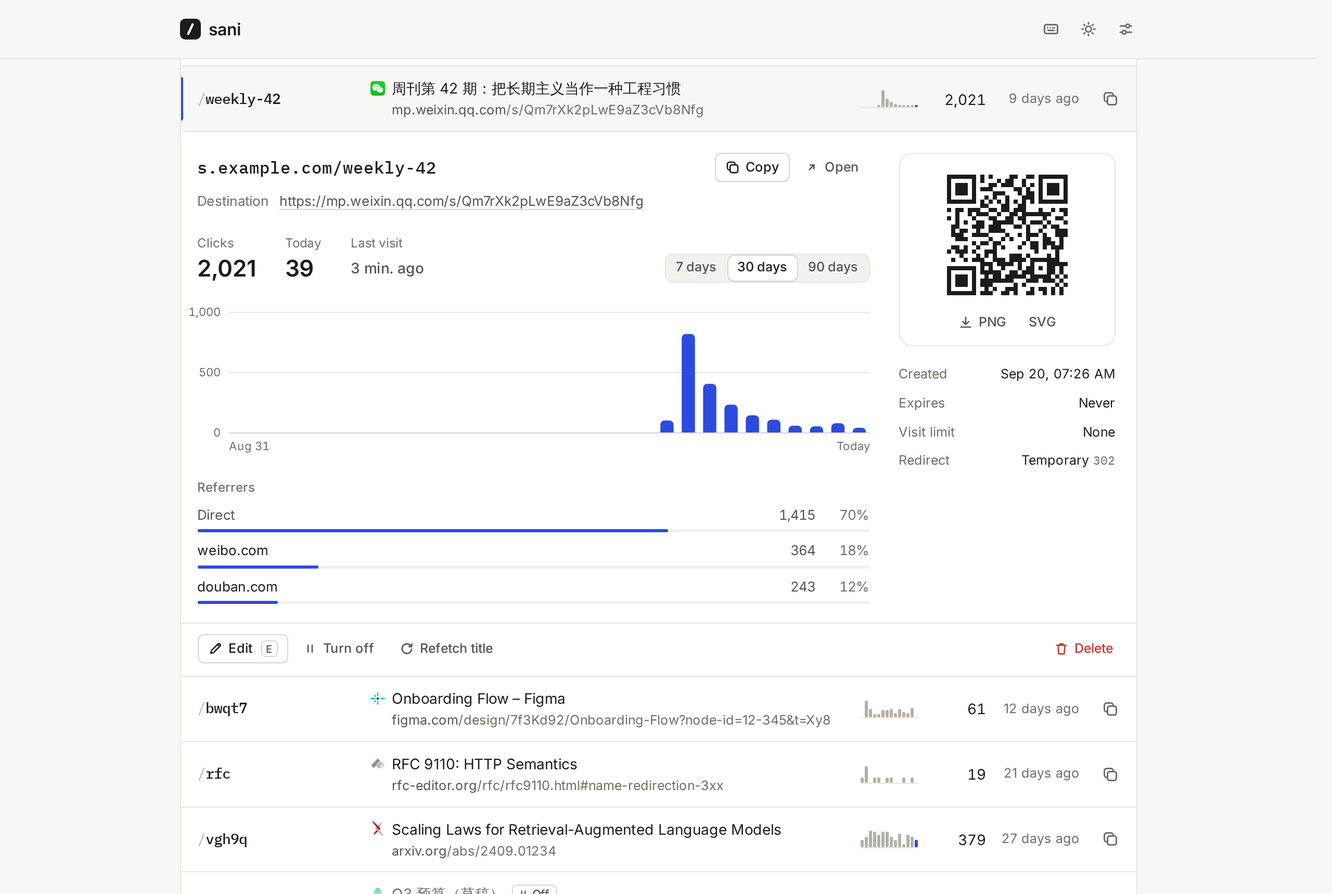
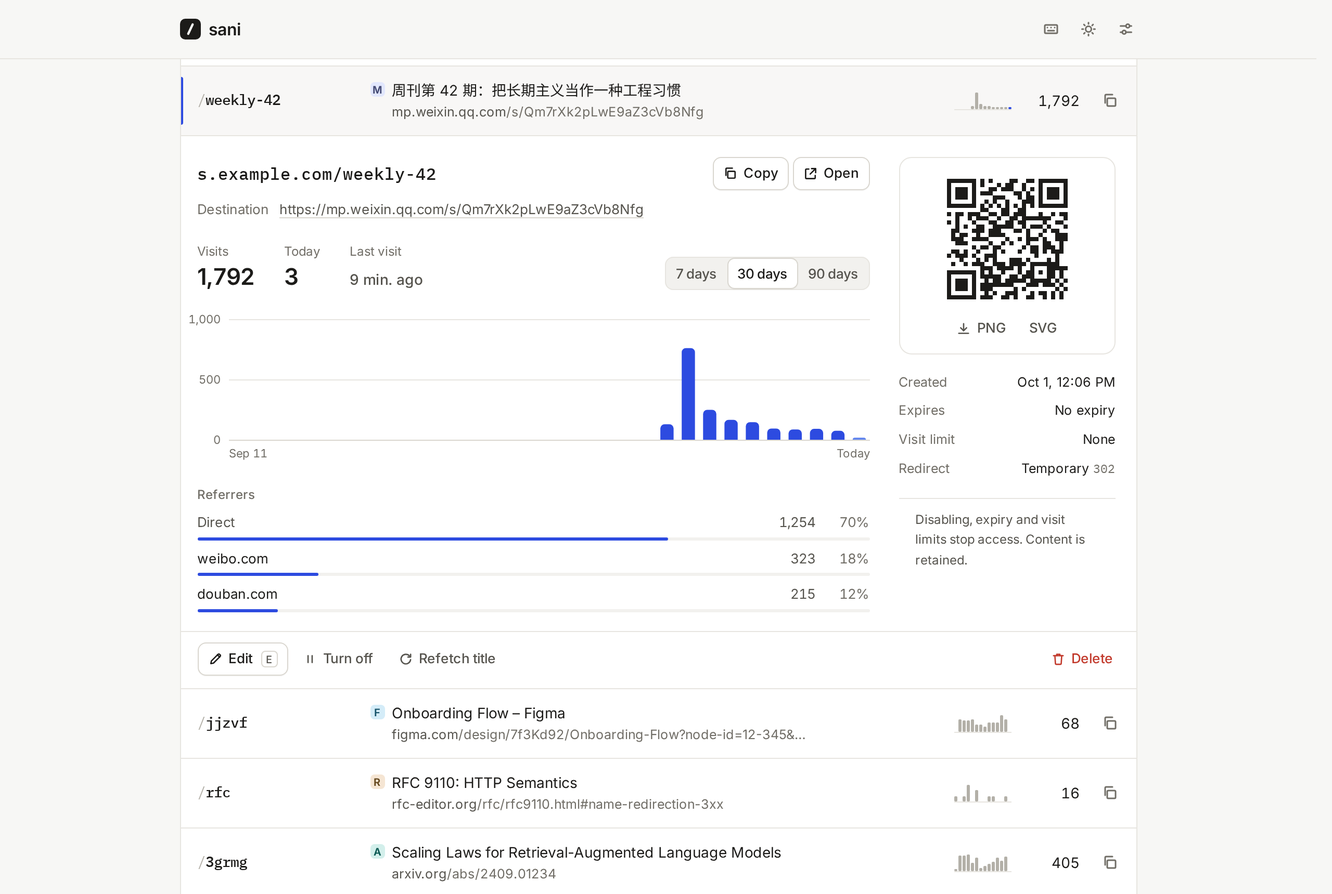
release: prepare v0.9.4

diff --git a/docs/en/guide/usage.md b/docs/en/guide/usage.md
@@ -1,6 +1,6 @@
 # Everyday use
 
-<p class="lead">The admin app is built around one job: getting a short link into your hands as quickly as possible. Here are the everyday actions, plus a few details that are easy to miss.</p>
+<p class="lead">Use Links, Text and Files to create content, then manage share URLs, tags and visits together. This guide explains everyday actions and their limits.</p>
 
 ## Shortening links
 
@@ -18,7 +18,7 @@ You can shorten the same URL as often as you like, and each time you get a new l
 
 ## Grouping with tags {#tags}
 
-Choose existing tags or create one by name when creating a URL, text or file link. Each link supports up to 5 tags. Names allow 24 Unicode code points, are trimmed and NFC-normalized, and are matched case-insensitively. New tags can have a color; the default is blue. Each instance supports up to 1,000 tags.
+Choose existing tags or create one by name when creating a URL, text or file link. Each item supports up to 5 tags. Names allow 24 Unicode code points, are trimmed and NFC-normalized, and are matched case-insensitively. New tags can have a color; the default is blue. Each instance supports up to 1,000 tags.
 
 Open a link's details and choose Edit to change its tags. Saving applies assignments; canceling keeps the previous grouping. Creating a tag saves it to the catalog immediately, so it remains available even if you later cancel the link edit.
 
@@ -63,9 +63,9 @@ Under “More options”, when creating a link or any time later:
 
 ## Several links at once {#bulk}
 
-Click “Select” above the list, or press <kbd>X</kbd> on a selected row, to enter selection mode. A click on a row then checks it; <kbd>Shift</kbd>-click another row to check everything in between, and the box at the left of the action bar checks every loaded link.
+Click “Select” above the list, or press <kbd>X</kbd> on a selected row, to enter selection mode. A click on a row then checks it; <kbd>Shift</kbd>-click another row to check everything in between, and the box at the left of the action bar checks every loaded item.
 
-With links checked, the action bar turns them on or off, or deletes them, up to 500 at a time. Deleting offers undo, as usual. Press <kbd>Esc</kbd> or click “Done” to leave selection mode.
+With items checked, the action bar turns them on or off, or deletes them, up to 500 at a time. Deleting offers undo, as usual. Press <kbd>Esc</kbd> or click “Done” to leave selection mode.
 
 Search first and then check everything to handle a group of related links at once, such as turning off all the links of a campaign. Changing the search or the sort clears the checks, so nothing out of sight gets changed.
 
@@ -92,14 +92,14 @@ In the list, texts and files show `/p/` before the slug and an icon instead of a
 
 Search matches slugs, titles, destinations, file names and the first line of texts; press <kbd>/</kbd> to start typing. Pasting a full short link finds that link. Next to it, “All types” narrows the list to links, texts or files.
 
-The list sorts by “Newest”, “Most clicked” or “Last visited”.
+The list sorts by “Newest”, “Most visits” or “Last visited”.
 
 ## Link details
 
 Click a row, or select it and press <kbd>Enter</kbd>, to open its details:
 
-- total clicks, clicks today, the last visit and the creation date, plus how much of the expiry and visit limit is used;
-- daily clicks for the last 7, 30 or 90 days;
+- total visits, visits today, the last visit and the creation date, plus how much of the expiry and visit limit is used;
+- daily visits for the last 7, 30 or 90 days;
 - the top referring sites;
 - a QR code, downloadable as PNG or SVG;
 - edit, turn off, delete and “Refetch title”.
@@ -110,12 +110,12 @@ Press <kbd>?</kbd> in the admin app to see them any time.
 
 | Keys | Action |
 |---|---|
-| <kbd>N</kbd> | New short link |
+| <kbd>N</kbd> | Focus the current creation form |
 | <kbd>Ctrl</kbd> <kbd>V</kbd> / <kbd>⌘</kbd> <kbd>V</kbd> | Paste a link anywhere |
 | <kbd>/</kbd> | Search |
 | <kbd>J</kbd> / <kbd>K</kbd>, or <kbd>↓</kbd> / <kbd>↑</kbd> | Move the selection |
 | <kbd>Enter</kbd> | Open or close details |
-| <kbd>C</kbd> | Copy the short link |
+| <kbd>C</kbd> | Copy the share URL |
 | <kbd>E</kbd> | Edit |
 | <kbd>Ctrl</kbd> <kbd>Enter</kbd> / <kbd>⌘</kbd> <kbd>Enter</kbd> | Save changes |
 | <kbd>Del</kbd> / <kbd>⌘</kbd> <kbd>⌫</kbd> | Delete, with undo; with links checked, deletes all of them |

diff --git a/docs/guide/usage.md b/docs/guide/usage.md
@@ -1,6 +1,6 @@
 # 日常使用
 
-<p class="lead">管理界面专注一件事：以最高效的方式完成链接缩短并交付。以下是常用交互技巧与进阶细节说明。</p>
+<p class="lead">管理界面用“链接、文本、文件”三个入口创建内容，并统一管理分享地址、标签和访问记录。以下是常用操作与边界说明。</p>
 
 ## 缩短链接
 
@@ -18,7 +18,7 @@
 
 ## 标签分组 {#tags}
 
-创建短链接、文本或文件分享时，在“标签”一栏选择已有标签，或输入名称直接新建。每条链接最多 5 个标签，名称最多 24 个 Unicode 码点；首尾空白会去除，规范化后的名称不区分大小写。新标签可选择颜色，默认蓝色；每个实例最多 1,000 个标签。
+创建短链接、文本或文件分享时，在“标签”一栏选择已有标签，或输入名称直接新建。每条内容最多 5 个标签，名称最多 24 个 Unicode 码点；首尾空白会去除，规范化后的名称不区分大小写。新标签可选择颜色，默认蓝色；每个实例最多 1,000 个标签。
 
 展开链接详情后点击“编辑”可调整标签；保存后生效，取消保留原分组。新建标签会立即保存到目录，即使之后取消链接编辑，也可以在下次使用它。
 
@@ -63,9 +63,9 @@
 
 ## 批量操作 {#bulk}
 
-点击列表顶栏“选择”或选定条目按 <kbd>X</kbd> 进入批量模式。单选每行直接勾选，配合 <kbd>Shift</kbd> 可范围连选；批量操作栏左侧复选框支持全选当前加载的链接。
+点击列表顶栏“多选”或选定条目按 <kbd>X</kbd> 进入批量模式。单选每行直接勾选，配合 <kbd>Shift</kbd> 可范围连选；批量操作栏左侧复选框支持全选当前加载的内容。
 
-支持对最多 500 条链接执行一键启用、停用或删除。批量删除同样支持撤销。按 <kbd>Esc</kbd> 或点击“完成”退出多选。
+支持对最多 500 条内容执行一键启用、停用或删除。批量删除同样支持撤销。按 <kbd>Esc</kbd> 或点击“完成”退出多选。
 
 配合搜索关键词过滤后再行全选，可批量处置特定活动或标签链接。切换搜索词或排序规则时会自动清空勾选，防止误操作视区外的隐藏记录。
 
@@ -92,14 +92,14 @@
 
 全局搜索支持匹配短码、标题、目标网址、文件名及首行文本内容，在任意界面按 <kbd>/</kbd> 即可快速唤起。直接粘贴完整短链接亦能精准定位。类型下拉框支持在“全部类型”、“链接”、“文本”、“文件”之间快速切换。
 
-列表支持按“最近创建”、“点击最多”与“最近访问”三种维度排序。
+列表支持按“最近创建”、“访问最多”与“最近访问”三种维度排序。
 
 ## 详细指标面板
 
 点击列表条目或选中后按 <kbd>回车</kbd> 展开详细面板：
 
-- 总点击、今日点击、最后访问时间、创建时间，以及有效期与访问上限消耗进度；
-- 近 7 天、30 天或 90 天的每日点击柱状图趋势；
+- 总访问、今日访问、最后访问时间、创建时间，以及有效期与访问上限消耗进度；
+- 近 7 天、30 天或 90 天的每日访问柱状图趋势；
 - Top 来源域名排行；
 - 二维码预览（支持导出 PNG 或 SVG）；
 - 编辑、停用、删除及“重新获取标题”等快捷操作。
@@ -110,12 +110,12 @@
 
 | 按键 | 作用 |
 |---|---|
-| <kbd>N</kbd> | 新建短链接 |
+| <kbd>N</kbd> | 聚焦当前创建区域 |
 | <kbd>Ctrl</kbd> <kbd>V</kbd> / <kbd>⌘</kbd> <kbd>V</kbd> | 全局粘贴链接 |
 | <kbd>/</kbd> | 聚焦搜索框 |
 | <kbd>J</kbd> / <kbd>K</kbd>，或 <kbd>↓</kbd> / <kbd>↑</kbd> | 上下移动选定项 |
 | <kbd>回车</kbd> | 展开 / 收起条目详情 |
-| <kbd>C</kbd> | 复制短链接至剪贴板 |
+| <kbd>C</kbd> | 复制分享地址至剪贴板 |
 | <kbd>E</kbd> | 编辑当前链接 |
 | <kbd>Ctrl</kbd> <kbd>回车</kbd> / <kbd>⌘</kbd> <kbd>回车</kbd> | 提交保存修改 |
 | <kbd>Del</kbd> / <kbd>⌘</kbd> <kbd>⌫</kbd> | 快捷删除（可撤销）；在多选模式下删除已勾选条目 |

diff --git a/docs/en/project/development.md b/docs/en/project/development.md
@@ -120,18 +120,18 @@ To release a new version:
 
 Push to Forgejo: `origin` must point to `ssh://git@ssh.via.moe/dejavu/sani.git`. Forgejo automatically mirrors pushes to GitHub, triggering application CI and release builds. `.woodpecker/docs.yml` deploys the documentation to `https://sani.zsh.moe` on Forgejo `master` pushes; pushing only to GitHub or only pushing a tag does not trigger documentation deployment.
 
-1. Turn the “Unreleased” section of both changelogs into a heading such as `## v0.9.3`, followed by the date. Update the full version tag in Compose, bilingual download examples and image verification examples.
-2. Run `make check test e2e smoke docs VERSION=v0.9.3` and `bash scripts/test-release-notes.sh`; confirm `scripts/release-notes.sh v0.9.3` generates the notes.
+1. Turn the “Unreleased” section of both changelogs into a heading such as `## v0.9.4`, followed by the date. Update the full version tag in Compose, bilingual download examples and image verification examples.
+2. Run `make check test e2e smoke docs VERSION=v0.9.4` and `bash scripts/test-release-notes.sh`; confirm `scripts/release-notes.sh v0.9.4` generates the notes.
 3. Commit, verify the Forgejo address with `git remote get-url origin`, then run `git push origin master`. Confirm GitHub mirrors the same commit, wait for that commit's CI and CodeQL to pass, and check Woodpecker documentation deployment.
 4. Create an annotated tag on the verified commit and push it to the same Forgejo remote:
 
    ```sh
-   git tag -a v0.9.3 -m "Sani v0.9.3"
-   git push origin refs/tags/v0.9.3
+   git tag -a v0.9.4 -m "Sani v0.9.4"
+   git push origin refs/tags/v0.9.4
    ```
 
 5. Wait for the GitHub Release to succeed and compare tag objects and target commits on Forgejo and GitHub. Verify every archive's SHA-256 and provenance, the multi-platform image and runtime version, and the live documentation's version and content in both languages. Never move, recreate or force-push a published tag; synchronize a missing tag by pushing its original object.
 
-The release workflow first makes sure the English changelog has an entry for the version, and stops if it doesn’t. It then runs the checks and tests once more, builds the archives and `SHA256SUMS`, pushes the multi-platform image with an SBOM, records build provenance for both, and creates the GitHub release with notes taken from the changelog. A tag like `v0.9.3-rc.1` is marked as a pre-release. Images always use full version tags; no `latest` or floating tags are published.
+The release workflow first makes sure the English changelog has an entry for the version, and stops if it doesn’t. It then runs the checks and tests once more, builds the archives and `SHA256SUMS`, pushes the multi-platform image with an SBOM, records build provenance for both, and creates the GitHub release with notes taken from the changelog. A tag like `v0.9.4-rc.1` is marked as a pre-release. Images always use full version tags; no `latest` or floating tags are published.
 
 Locally, `make web dist VERSION=v0.2.0` produces the same archives as the release. Building one commit twice gives byte-for-byte identical files.

diff --git a/docs/project/development.md b/docs/project/development.md
@@ -120,18 +120,18 @@ cd web && SANI_URL=http://127.0.0.1:18080 SANI_FRESH_URL=http://127.0.0.1:8080 n
 
 推送入口是 Forgejo：`origin` 应指向 `ssh://git@ssh.via.moe/dejavu/sani.git`。Forgejo 收到推送后自动镜像到 GitHub，触发应用 CI 与发布构建。文档站由 `.woodpecker/docs.yml` 监听 Forgejo 的 `master` 推送并部署到 `https://sani.zsh.moe`；只推 GitHub 或只推标签不会触发这条文档部署流程。
 
-1. 把两份更新日志里的“未发布”一节改成新版本，标题是 `## v0.9.3` 这样的格式，并在下一行写上日期；同步 Compose、双语下载示例与镜像校验示例的完整版本标签。
-2. 运行 `make check test e2e smoke docs VERSION=v0.9.3` 和 `bash scripts/test-release-notes.sh`，确认 `scripts/release-notes.sh v0.9.3` 能生成说明。
+1. 把两份更新日志里的“未发布”一节改成新版本，标题是 `## v0.9.4` 这样的格式，并在下一行写上日期；同步 Compose、双语下载示例与镜像校验示例的完整版本标签。
+2. 运行 `make check test e2e smoke docs VERSION=v0.9.4` 和 `bash scripts/test-release-notes.sh`，确认 `scripts/release-notes.sh v0.9.4` 能生成说明。
 3. 提交后先用 `git remote get-url origin` 核对 Forgejo 地址，再 `git push origin master`。确认镜像到 GitHub 的提交一致，等待该提交的 CI 与 CodeQL 通过，并检查 Woodpecker 文档部署。
 4. 在已通过检查的提交上创建附注标签，推送到同一个 Forgejo 远程：
 
    ```sh
-   git tag -a v0.9.3 -m "Sani v0.9.3"
-   git push origin refs/tags/v0.9.3
+   git tag -a v0.9.4 -m "Sani v0.9.4"
+   git push origin refs/tags/v0.9.4
    ```
 
 5. 等待 GitHub Release 成功，核对 Forgejo 与 GitHub 的标签对象及目标提交一致；验证所有压缩包的 SHA-256 与来源证明、多平台镜像和实际运行版本，以及线上中英文文档的版本和内容。已发布标签不得移动、重建或强推；补同步缺失标签时推送原有对象。
 
-发布流程会先确认英文更新日志里有这个版本的条目（没有就停下），再运行一遍检查和测试，然后构建各平台的压缩包和 `SHA256SUMS`、推送多平台镜像（附 SBOM），为两者生成构建来源证明，最后创建 GitHub Release，说明取自更新日志。`v0.9.3-rc.1` 这样的标签会标记为预发布。镜像始终使用完整版本标签，不发布 `latest` 或浮动标签。
+发布流程会先确认英文更新日志里有这个版本的条目（没有就停下），再运行一遍检查和测试，然后构建各平台的压缩包和 `SHA256SUMS`、推送多平台镜像（附 SBOM），为两者生成构建来源证明，最后创建 GitHub Release，说明取自更新日志。`v0.9.4-rc.1` 这样的标签会标记为预发布。镜像始终使用完整版本标签，不发布 `latest` 或浮动标签。
 
 在本地可以用 `make web dist VERSION=v0.2.0` 得到和发布时相同的压缩包。同一个提交构建两次，结果逐字节相同。

diff --git a/docs/en/guide/deploy.md b/docs/en/guide/deploy.md
@@ -28,10 +28,10 @@ A few things worth knowing about `compose.yaml`:
 
 | Tag | Points at |
 |---|---|
-| `v0.9.3` | The exact version matching Git tag and GitHub Release `v0.9.3` |
-| `v0.9.3-rc.1` | The matching prerelease Git tag, available only once published |
+| `v0.9.4` | The exact version matching Git tag and GitHub Release `v0.9.4` |
+| `v0.9.4-rc.1` | The matching prerelease Git tag, available only once published |
 
-From v0.7.0, image tags match Git tags and GitHub Releases exactly, including the `v` prefix. Releases no longer publish `latest`, major or minor floating tags. The repository template and configuration builder pin `ghcr.io/dejavumoe/sani:v0.9.3`. Check that the version appears in [Releases](https://github.com/DejavuMoe/sani/releases) before deploying; a release preparation branch may refer to a version that is not published yet.
+From v0.7.0, image tags match Git tags and GitHub Releases exactly, including the `v` prefix. Releases no longer publish `latest`, major or minor floating tags. The repository template and configuration builder pin `ghcr.io/dejavumoe/sani:v0.9.4`. Check that the version appears in [Releases](https://github.com/DejavuMoe/sani/releases) before deploying; a release preparation branch may refer to a version that is not published yet.
 
 To upgrade, [back up](./operations#backup), change `image:` in `compose.yaml` to the target version's full tag, then run:
 
@@ -104,7 +104,7 @@ The binary is statically linked and needs no libraries on the server. On macOS, 
 ::: code-group
 
 ```sh [Download]
-base=https://github.com/DejavuMoe/sani/releases/download/v0.9.3
+base=https://github.com/DejavuMoe/sani/releases/download/v0.9.4
 curl -fsSLO "$base/sani-linux-amd64.tar.gz" -O "$base/SHA256SUMS"
 sha256sum --ignore-missing -c SHA256SUMS
 tar -xzf sani-linux-amd64.tar.gz sani
@@ -119,7 +119,7 @@ ssh server sudo install -m 755 /tmp/sani /usr/local/bin/sani
 
 :::
 
-The download path pins `v0.9.3`. When upgrading, replace it with the published target version's tag.
+The download path pins `v0.9.4`. When upgrading, replace it with the published target version's tag.
 
 ### Checking where a build came from {#verify}
 
@@ -127,7 +127,7 @@ Release files and images are built by GitHub Actions from the tagged commit, wit
 
 ```sh
 gh attestation verify sani-linux-amd64.tar.gz -R DejavuMoe/sani
-gh attestation verify oci://ghcr.io/dejavumoe/sani:v0.9.3 -R DejavuMoe/sani
+gh attestation verify oci://ghcr.io/dejavumoe/sani:v0.9.4 -R DejavuMoe/sani
 ```
 
 Save the generated `sani.service` in `/etc/systemd/system/` and enable it:

diff --git a/docs/guide/deploy.md b/docs/guide/deploy.md
@@ -28,10 +28,10 @@ docker compose up -d
 
 | 标签 | 指向 |
 |---|---|
-| `v0.9.3` | 对应 Git tag 和 GitHub Release `v0.9.3` 的具体版本 |
-| `v0.9.3-rc.1` | 对应同名 Git tag 的预发布版（仅在发布该版本后可用） |
+| `v0.9.4` | 对应 Git tag 和 GitHub Release `v0.9.4` 的具体版本 |
+| `v0.9.4-rc.1` | 对应同名 Git tag 的预发布版（仅在发布该版本后可用） |
 
-从 v0.7.0 起，镜像标签与 Git tag、GitHub Release 完全一致，保留 `v` 前缀；不再发布 `latest`、主版本或次版本浮动标签。仓库模板与配置生成器固定使用 `ghcr.io/dejavumoe/sani:v0.9.3`。部署前确认该版本已出现在 [Releases](https://github.com/DejavuMoe/sani/releases) 中；发布准备分支中的版本可能尚未发布。
+从 v0.7.0 起，镜像标签与 Git tag、GitHub Release 完全一致，保留 `v` 前缀；不再发布 `latest`、主版本或次版本浮动标签。仓库模板与配置生成器固定使用 `ghcr.io/dejavumoe/sani:v0.9.4`。部署前确认该版本已出现在 [Releases](https://github.com/DejavuMoe/sani/releases) 中；发布准备分支中的版本可能尚未发布。
 
 升级时先[备份](./operations#backup)，再手动将 `compose.yaml` 的 `image:` 改为目标版本的完整标签，随后执行：
 
@@ -104,7 +104,7 @@ docker exec sani /sani healthcheck
 ::: code-group
 
 ```sh [下载]
-base=https://github.com/DejavuMoe/sani/releases/download/v0.9.3
+base=https://github.com/DejavuMoe/sani/releases/download/v0.9.4
 curl -fsSLO "$base/sani-linux-amd64.tar.gz" -O "$base/SHA256SUMS"
 sha256sum --ignore-missing -c SHA256SUMS
 tar -xzf sani-linux-amd64.tar.gz sani
@@ -119,7 +119,7 @@ ssh server sudo install -m 755 /tmp/sani /usr/local/bin/sani
 
 :::
 
-下载路径固定到 `v0.9.3`；升级时将路径中的标签改为已发布的目标版本。
+下载路径固定到 `v0.9.4`；升级时将路径中的标签改为已发布的目标版本。
 
 ### 校验来源与签名 {#verify}
 
@@ -127,7 +127,7 @@ ssh server sudo install -m 755 /tmp/sani /usr/local/bin/sani
 
 ```sh
 gh attestation verify sani-linux-amd64.tar.gz -R DejavuMoe/sani
-gh attestation verify oci://ghcr.io/dejavumoe/sani:v0.9.3 -R DejavuMoe/sani
+gh attestation verify oci://ghcr.io/dejavumoe/sani:v0.9.4 -R DejavuMoe/sani
 ```
 
 将生成的 `sani.service` 写入 `/etc/systemd/system/` 并启动：

diff --git a/docs/en/project/progress.md b/docs/en/project/progress.md
@@ -41,6 +41,12 @@ Run the following checks for each release candidate commit. A previous release's
 
 Before accepting a target deployment, also verify HTTPS, proxy trust, both domains, volume permissions, backup recovery and monitoring as described in [Operations](../guide/operations). `/healthz` reports liveness, not database writability or complete application health. The compatibility promises for 1.0 require the separate [versioning gates](./versioning#before-1); passing local checks does not automatically make a 1.0 release.
 
+## v0.9.4 management and visual consistency acceptance {#r9-acceptance}
+
+Approved R7 and R9 are implemented. Tag search and scope filters share an outer height; toolbars, fields and menus use shared sizes, with 44px controls on narrow or touch screens. Categories, share URLs, visit statistics and About typography are consistent. R9 sizing supersedes the R6 narrow-screen compact rule.
+
+Atomic tag deletion and retained content: `internal/store/tags_test.go`, `internal/server/tags_test.go`. Draft guards, filtered refresh, retries and grouped dimensions: `web/e2e/r7.spec.ts`. Breakpoints, both languages/themes, mouse and emulated touch: `web/e2e/metadata.spec.ts`. Rendered evidence: `designs/sani/implementation-r9/`. Physical devices and Firefox/WebKit remain unverified.
+
 ## v0.9.3 slug and interface fix acceptance {#r6-acceptance}
 
 Approved R6 is implemented, with matching prototype and production fixes. These regressions cover independent slug settings, stable previews and responsive controls. Touch checks use browser emulation; they do not establish acceptance on physical iOS/Android devices or Firefox/WebKit.

diff --git a/docs/en/project/changelog.md b/docs/en/project/changelog.md
@@ -2,13 +2,17 @@
 
 <p class="lead">Every release’s changes are recorded here. Versions follow [semantic versioning](./versioning); before 1.0, a minor version may include breaking changes, and when it does, this page says how to upgrade.</p>
 
-## Unreleased
+## v0.9.4
+
+2026-10-10 · Fix missing tag management, lost draft/refresh state and inconsistent interface controls. Implements approved R7 and R9. Database schema remains 5 with no new migration; existing share URLs, configuration defaults and file contents stay unchanged.
 
 - Apply approved R9 control sizes: 32px desktop toolbars, 36px fields and 38px menu rows, with 44px controls on narrow or touch screens. Align tag search and filters, management entry styling and About typography.
 - Complete tag management with search, unused tags, global editing and atomic deletion that retains content.
 - Protect submitted drafts and unsaved item edits; preserve loaded pages and selection during refresh.
 - Distinguish query, pagination, statistics and token errors from empty data, with retry actions.
 - Clarify Links / Text / Files, counts, access limits and export versus backup; download all skipped import records.
+
+Before upgrading from v0.9.3, back up the database, files and configuration using [backup and restore](../guide/operations#backup-files), then replace the binary or pin `ghcr.io/dejavumoe/sani:v0.9.4`. Check Manage tags and creation/editing for all three content types. Deleting a tag removes its associations from all items while keeping the items; it cannot be undone. Use disposable tags when checking deletion.
 
 ## v0.9.3
 

diff --git a/docs/project/changelog.md b/docs/project/changelog.md
@@ -2,13 +2,17 @@
 
 <p class="lead">每个版本的变化都记录在这里。版本号遵循[语义化版本](./versioning)；在 1.0 之前，次版本号的变化也可能包含不兼容的修改，届时会在这里写明升级方法。</p>
 
-## Unreleased
+## v0.9.4
+
+2026-10-10 · 修复标签管理缺失、草稿与刷新状态丢失及界面视觉不一致，实施已批准的 R7、R9。数据库 schema 仍为 5，无新增迁移；已有分享地址、配置默认值及文件内容不变。
 
 - 按 R9 统一控件外框：桌面工具栏 32px、表单 36px、菜单行 38px，窄屏或触屏统一 44px；修复标签搜索与筛选高度、管理入口样式及关于信息字体不一致。
 - 补齐标签管理：搜索、未使用筛选、全局编辑和原子删除，删除标签保留内容。
 - 保护提交中的草稿与未保存编辑；刷新保留已加载页面和选择。
 - 区分筛选、分页、统计、令牌读取失败与空数据，提供就地重试。
 - 明确链接 / 文本 / 文件、统计与访问口径、导出和备份边界，支持下载全部导入跳过记录。
+
+从 v0.9.3 升级前，按[备份与恢复](../guide/operations#backup-files)备份数据库、文件和配置，再替换二进制或固定到 `ghcr.io/dejavumoe/sani:v0.9.4`。升级后检查“管理标签”和三类内容的创建／编辑。删除标签会移除它在全部内容上的关联，保留内容本身，此操作不能撤销；不要用真实标签测试删除。
 
 ## v0.9.3
 

diff --git a/docs/guide/quick-start.md b/docs/guide/quick-start.md
@@ -10,11 +10,11 @@
 mkdir -p ~/sani && cd ~/sani
 sudo install -d -m 750 -o 65532 -g 65532 ./sani-data
 docker run -d --name sani -p 127.0.0.1:8080:8080 \
-  --mount "type=bind,source=$(pwd)/sani-data,target=/data" ghcr.io/dejavumoe/sani:v0.9.3
+  --mount "type=bind,source=$(pwd)/sani-data,target=/data" ghcr.io/dejavumoe/sani:v0.9.4
 ```
 
 ```sh [二进制文件]
-curl -fsSL https://github.com/DejavuMoe/sani/releases/download/v0.9.3/sani-linux-amd64.tar.gz | tar -xz sani
+curl -fsSL https://github.com/DejavuMoe/sani/releases/download/v0.9.4/sani-linux-amd64.tar.gz | tar -xz sani
 SANI_LISTEN=127.0.0.1:8080 ./sani     # 数据保存在 ./data 目录
 ```
 

diff --git a/docs/en/guide/quick-start.md b/docs/en/guide/quick-start.md
@@ -10,11 +10,11 @@
 mkdir -p ~/sani && cd ~/sani
 sudo install -d -m 750 -o 65532 -g 65532 ./sani-data
 docker run -d --name sani -p 127.0.0.1:8080:8080 \
-  --mount "type=bind,source=$(pwd)/sani-data,target=/data" ghcr.io/dejavumoe/sani:v0.9.3
+  --mount "type=bind,source=$(pwd)/sani-data,target=/data" ghcr.io/dejavumoe/sani:v0.9.4
 ```
 
 ```sh [Binary]
-curl -fsSL https://github.com/DejavuMoe/sani/releases/download/v0.9.3/sani-linux-amd64.tar.gz | tar -xz sani
+curl -fsSL https://github.com/DejavuMoe/sani/releases/download/v0.9.4/sani-linux-amd64.tar.gz | tar -xz sani
 SANI_LISTEN=127.0.0.1:8080 ./sani     # keeps its data in ./data
 ```
 
